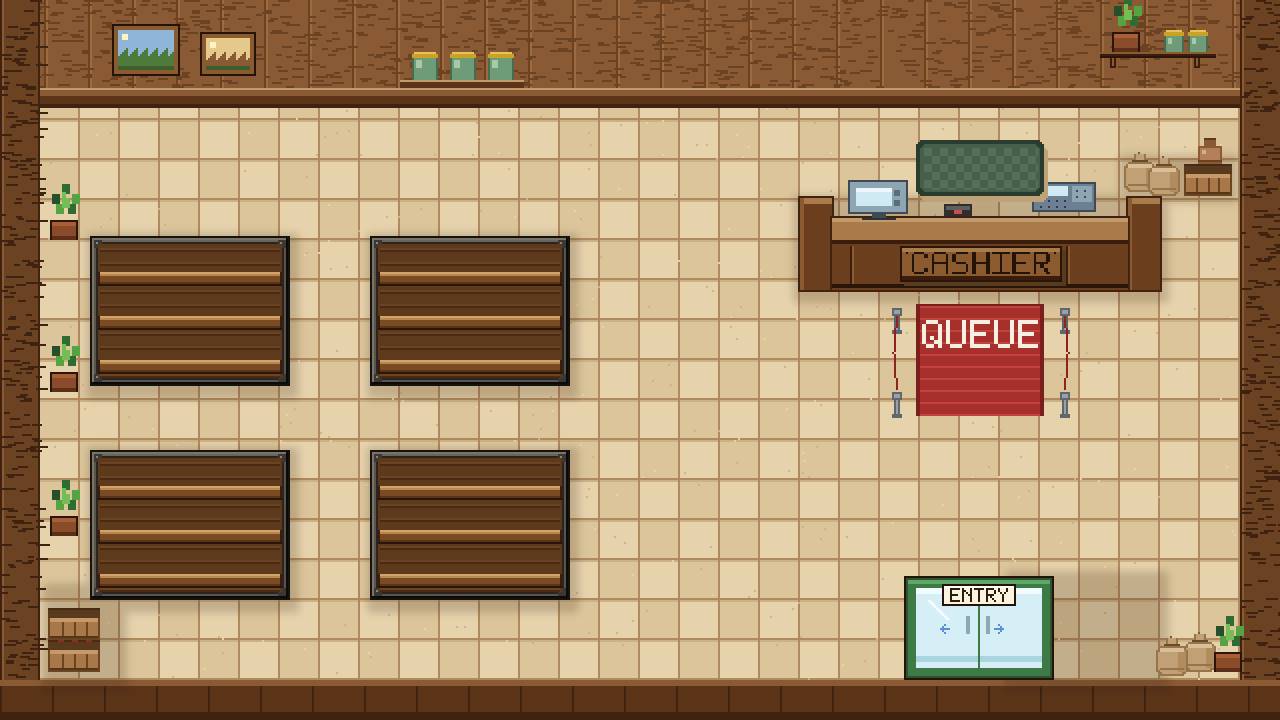
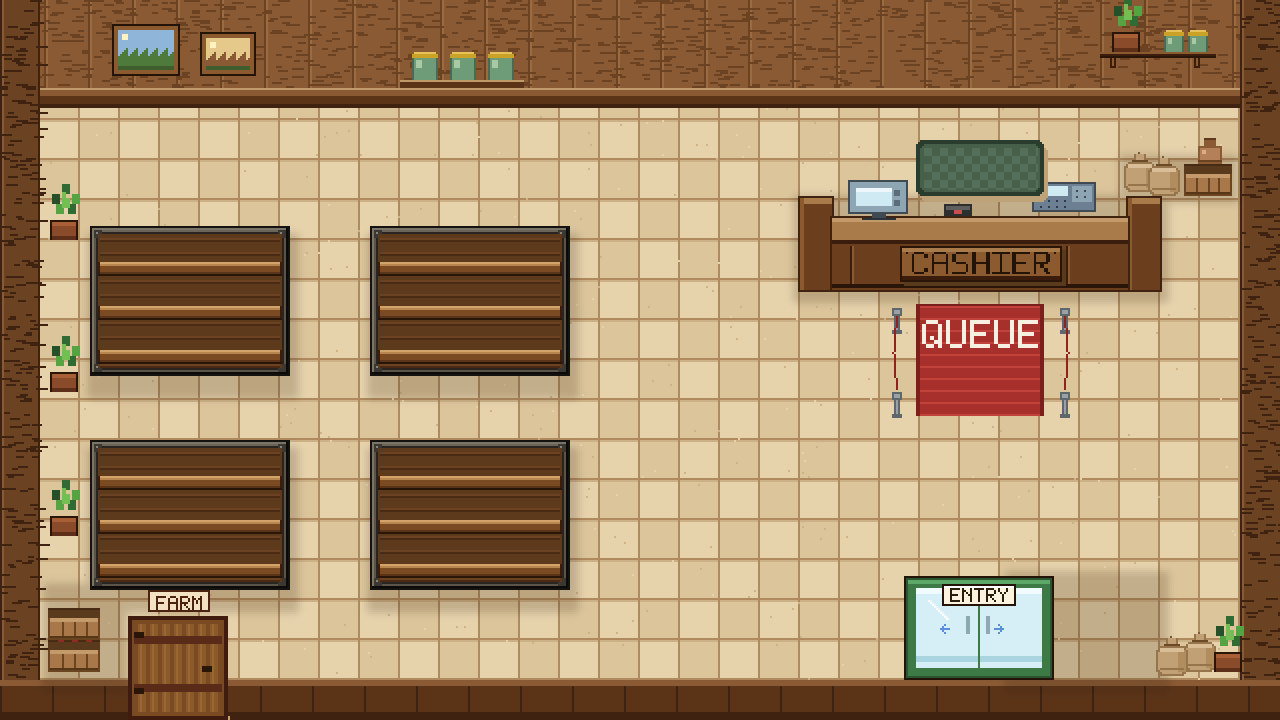
feat(map): pintu FARM di minimarket + pintu 'Minimart' di kebun (klik/SPACE), rak dinaikkan 10px, tombol HUD dihapus

diff --git a/web/src/game/scenes/FarmScene.ts b/web/src/game/scenes/FarmScene.ts
@@ -24,12 +24,17 @@ import {
 } from "../types";
 import { economy } from "../economy";
 import { isPlaying } from "../flow";
-import { openSeedShop } from "../ui";
+import { openSeedShop, goToScene } from "../ui";
 import { recordPurchase, recordPlant, recordHarvest } from "../../near/wallet";
 
 const WORLD_W = 1280;
 /** Titik muncul pemain di kebun: tengah persimpangan jalan (biar langsung terlihat). */
 const FARM_SPAWN = { x: 640, y: 392 };
+
+// Pintu gudang di latar (kanvas 1108..1164, 160..232) dipakai sebagai pintu
+// kembali ke minimarket — papan namanya berubah jadi "Minimart".
+const MART_DOOR = { x: 1108, y: 160, w: 56, h: 72 };
+const DOOR_REACH = 130;
 const WORLD_H = 720;
 const SCALE = 2;
 
@@ -246,7 +251,7 @@ export class FarmScene extends Phaser.Scene {
     // Papan nama gudang: teks duduk di papan kayu yang tergambar di atas pintu
     // (aset: draw_barn_sign di scripts/gen_pixel_assets.py, x+30 y+28, 44x12).
     this.add
-      .text(1136, 148, "Warehouse", {
+      .text(1136, 148, "Minimart", {
         fontFamily: "Verdana, system-ui, sans-serif",
         fontSize: "10px",
         color: "#4A2410",
@@ -319,6 +324,13 @@ export class FarmScene extends Phaser.Scene {
   private pendingColliders: Phaser.GameObjects.Rectangle[] = [];
 
   private createPlayer() {
+    // Zona pintu gudang (kanvas 1108..1164, 160..232) untuk klik.
+    const doorZone = this.add
+      .zone(MART_DOOR.x + MART_DOOR.w / 2, MART_DOOR.y + MART_DOOR.h / 2, MART_DOOR.w, MART_DOOR.h)
+      .setOrigin(0.5, 0.5)
+      .setInteractive({ useHandCursor: true });
+    doorZone.on("pointerdown", () => this.tryUseMartDoor());
+
     this.player = this.physics.add.sprite(FARM_SPAWN.x, FARM_SPAWN.y, "player-down-1-out");
     this.player.setDepth(3);
     // sedikit lebih besar dari NPC toko (skala 2) supaya peran pemain menonjol
@@ -336,6 +348,9 @@ export class FarmScene extends Phaser.Scene {
 
     this.cursors = this.input.keyboard!.createCursorKeys();
     this.wasd = this.input.keyboard!.addKeys("W,A,S,D") as Record<string, Phaser.Input.Keyboard.Key>;
+
+    this.spaceKey = this.input.keyboard!.addKey(Phaser.Input.Keyboard.KeyCodes.SPACE);
+    this.spaceKey.on("down", () => this.tryUseMartDoor());
   }
 
   private createAnimations() {
@@ -719,6 +734,21 @@ export class FarmScene extends Phaser.Scene {
     this.updateStallPrompt();
     if (this.notice && this.time.now > this.noticeUntil) this.notice = null;
   }
+
+  /** Pintu gudang (kini "Minimart"): klik / SPACE untuk kembali ke minimarket. */
+  private tryUseMartDoor() {
+    if (!isPlaying() || !this.front || !this.player) return;
+    const cx = MART_DOOR.x + MART_DOOR.w / 2;
+    const cy = MART_DOOR.y + MART_DOOR.h / 2;
+    const d = Phaser.Math.Distance.Between(this.player.x, this.player.y, cx, cy);
+    if (d > DOOR_REACH) {
+      this.say("Walk closer to the minimart door, then press SPACE.");
+      return;
+    }
+    goToScene("mart");
+  }
+
+  private spaceKey?: Phaser.Input.Keyboard.Key;
 
   private movePlayer() {
     const speed = 210;

diff --git a/web/src/game/scenes/MinimarketScene.ts b/web/src/game/scenes/MinimarketScene.ts
@@ -20,6 +20,7 @@ import {
   type WorldSnapshot,
 } from "../types";
 import { economy, saleProfit } from "../economy";
+import { goToScene } from "../ui";
 import { isPlaying } from "../flow";
 import { recordSale, recordFail, recordRefill } from "../../near/wallet";
 
@@ -41,10 +42,10 @@ const SHELF_SLOTS = SHELF_COLS * SHELF_ROWS;
 
 /** 4 rak: dua kolom, dua baris. */
 const SHELF_POS: { crop: CropId; x: number; y: number }[] = [
-  { crop: "jagung", x: 90, y: 236 },
-  { crop: "tomat", x: 370, y: 236 },
-  { crop: "wortel", x: 90, y: 450 },
-  { crop: "kentang", x: 370, y: 450 },
+  { crop: "jagung", x: 90, y: 226 },
+  { crop: "tomat", x: 370, y: 226 },
+  { crop: "wortel", x: 90, y: 440 },
+  { crop: "kentang", x: 370, y: 440 },
 ];
 
 const COUNTER = { x: 798, y: 216, w: 364, h: 76 };
@@ -52,6 +53,10 @@ const COUNTER = { x: 798, y: 216, w: 364, h: 76 };
 // Pemain muncul di tengah karpet kasir (pusat CASHIER_MAT 916+64, 140+28),
 // bukan lagi di pintu ENTRY, supaya langsung terlihat saat masuk minimarket.
 const PLAYER_SPAWN = { x: 980, y: 168 };
+
+// Pintu kayu ke kebun di kiri bawah (digambar di market-bg oleh generator).
+const FARM_DOOR = { x: 132, y: 620, w: 92, h: 96 };
+const DOOR_REACH = 120;
 
 /**
  * Traffic pelanggan berbasis gelombang (disetujui Bos Yoga):
@@ -639,6 +644,7 @@ export class MinimarketScene extends Phaser.Scene {
   }
 
   private colliders: Phaser.GameObjects.Rectangle[] = [];
+  private spaceKey?: Phaser.Input.Keyboard.Key;
 
   private createPlayer() {
     this.player = this.physics.add.sprite(PLAYER_SPAWN.x, PLAYER_SPAWN.y, "player-down-1-out");
@@ -658,6 +664,28 @@ export class MinimarketScene extends Phaser.Scene {
       string,
       Phaser.Input.Keyboard.Key
     >;
+    this.spaceKey = this.input.keyboard!.addKey(Phaser.Input.Keyboard.KeyCodes.SPACE);
+    this.spaceKey.on("down", () => this.tryUseFarmDoor());
+
+    // Klik pada pintu kayu juga berfungsi (tidak perlu tepat di karpet pintu).
+    const doorZone = this.add
+      .zone(FARM_DOOR.x + FARM_DOOR.w / 2, FARM_DOOR.y + FARM_DOOR.h / 2, FARM_DOOR.w, FARM_DOOR.h)
+      .setOrigin(0.5, 0.5)
+      .setInteractive({ useHandCursor: true });
+    doorZone.on("pointerdown", () => this.tryUseFarmDoor());
+  }
+
+  /** Pemain menekan SPACE / mengklik pintu kayu: pindah ke kebun kalau cukup dekat. */
+  private tryUseFarmDoor() {
+    if (!isPlaying() || !this.front || !this.player) return;
+    const cx = FARM_DOOR.x + FARM_DOOR.w / 2;
+    const cy = FARM_DOOR.y + FARM_DOOR.h / 2;
+    const d = Phaser.Math.Distance.Between(this.player.x, this.player.y, cx, cy);
+    if (d > DOOR_REACH) {
+      this.say("Walk closer to the door, then press SPACE.");
+      return;
+    }
+    goToScene("farm");
   }
 
   private createAnimations() {

diff --git a/web/src/Game.tsx b/web/src/Game.tsx
@@ -10,7 +10,7 @@ import { useCallback, useEffect, useRef, useState } from "react";
 import { connectWallet, ensureSessionKey, disconnectWallet, subscribe as subscribeWallet, recordRound } from "./near/wallet";
 import Phaser from "phaser";
 import { FarmScene } from "./game/scenes/FarmScene";
-import { onOpenSeedShop } from "./game/ui";
+import { onOpenSeedShop, onGoToScene } from "./game/ui";
 import { MinimarketScene } from "./game/scenes/MinimarketScene";
 import { economy, resetEconomy } from "./game/economy";
 import { isPlaying, startSession, stopSession } from "./game/flow";
@@ -266,9 +266,6 @@ export default function Game() {
   const [payChange, setPayChange] = useState("");
   const changeRef = useRef<HTMLInputElement>(null);
   const payId = world.store.payment?.id ?? 0;
-  /** Ada rak yang menampilkan "FILL YOUR DISPLAY" (stok ≤ 8) → tombol FARM berkedip. */
-  const needsRefill = world.shelves.some((s) => s.count <= 8);
-
 
 
   const billTotal = world.store.payment
@@ -534,6 +531,21 @@ export default function Game() {
     mini?.resetRound();
   }, [switchScene]);
 
+  // Pintu di peta memanggil ini lewat game/ui.ts (klik atau SPACE).
+  useEffect(() => {
+    const off = onGoToScene((target) => {
+      if (target === "farm") {
+        playNav();
+        switchScene("FarmScene");
+        showTentHint();
+      } else {
+        playNav();
+        switchScene("MinimarketScene");
+      }
+    });
+    return off;
+  }, [switchScene, showTentHint]);
+
   const totalSeedCost = CROP_ORDER.reduce((sum, c) => sum + CROPS[c].seed * qty[c], 0);
   return (
     <div className={`game-root${playing ? " is-playing" : ""}`} ref={rootRef}>
@@ -562,22 +574,6 @@ export default function Game() {
             <span className="hud-music-icon" aria-hidden="true">♪</span>
             <span>{musicOn ? "ON" : "OFF"}</span>
           </button>
-        </div>
-
-        {/* Pindah halaman + TUTUP TOKO. Tombol mulai jualan ada di layar PLAY. */}
-        <div className="hud-center">
-          {world.activeScene === "farm" ? (
-            <button className="hud-btn" onClick={() => { playNav(); switchScene("MinimarketScene"); }}>
-              MINIMART
-            </button>
-          ) : (
-            <button
-              className={`hud-btn ${needsRefill ? "is-alert" : ""}`}
-              onClick={() => { playNav(); switchScene("FarmScene"); showTentHint(); }}
-            >
-              FARM
-            </button>
-          )}
         </div>
 
         <div className="hud-right">

diff --git a/web/src/game/ui.ts b/web/src/game/ui.ts
@@ -2,13 +2,15 @@
  * Saluran kecil antara Phaser dan React untuk hal-hal UI.
  *
  * Dipakai supaya scene bisa meminta React membuka popup (mis. Toko Bibit dari
- * tenda di peta) tanpa bergantung pada referensi instance scene yang bisa
- * berbeda antar-reload.
+ * tenda di peta) atau berpindah tempat (lewat pintu), tanpa bergantung pada
+ * referensi instance scene yang bisa berbeda antar-reload.
  */
 
 type Listener = () => void;
+type SceneListener = (target: "farm" | "mart") => void;
 
 let listeners: Listener[] = [];
+let sceneListeners: SceneListener[] = [];
 
 /** Daftarkan pendengar; kembalikan fungsi untuk melepasnya. */
 export function onOpenSeedShop(fn: Listener): () => void {
@@ -21,4 +23,17 @@ export function onOpenSeedShop(fn: Listener): () => void {
 /** Panggil dari scene: minta React membuka popup Toko Bibit. */
 export function openSeedShop() {
   for (const fn of listeners) fn();
+}
+
+/** Daftarkan pendengar pindah tempat (pintu). */
+export function onGoToScene(fn: SceneListener): () => void {
+  sceneListeners.push(fn);
+  return () => {
+    sceneListeners = sceneListeners.filter((l) => l !== fn);
+  };
+}
+
+/** Panggil dari scene: pemain menembus/menekan pintu. */
+export function goToScene(target: "farm" | "mart") {
+  for (const fn of sceneListeners) fn(target);
 }

diff --git a/web/scripts/gen_market_assets.py b/web/scripts/gen_market_assets.py
@@ -642,6 +642,45 @@ def shadows():
     return sl.filter(ImageFilter.GaussianBlur(2))
 
 
+
+def draw_farm_door(d):
+    """Pintu kayu ke kebun (kiri bawah minimarket).
+
+    Gaya sama seperti pintu gudang di peta kebun: papan kayu vertikal,
+    kusen gelap, pegangan besi, dan papan kecil "FARM" di atasnya.
+    """
+    x, y, w, h = 66, 310, 46, 48
+
+    # bayangan lantai
+    d.rectangle([x - 2, y + h, x + w + 2, y + h + 3], fill="#C9A26A")
+
+    # kusen
+    rect(d, x - 2, y - 2, w + 4, h + 4, "#3F1C0E")
+    # daun pintu: papan vertikal
+    rect(d, x, y, w, h, "#7A4A22")
+    for i in range(x + 3, x + w - 2, 6):
+        d.rectangle([i, y + 2, i + 3, y + h - 3], fill="#8B5A2B")
+        d.rectangle([i + 1, y + 2, i + 1, y + h - 3], fill="#9A6631")
+    # palang mendatar
+    rect(d, x + 1, y + 8, w - 2, 4, "#5B2B19")
+    rect(d, x + 1, y + h - 16, w - 2, 4, "#5B2B19")
+    # pegangan besi
+    rect(d, x + w - 11, y + h // 2 - 1, 5, 3, "#2A1608")
+    # engsel
+    rect(d, x + 1, y + 6, 5, 3, "#2A1608")
+    rect(d, x + 1, y + h - 14, 5, 3, "#2A1608")
+
+    # papan nama "FARM" di atas pintu
+    label = "FARM"
+    tw = text_w(label)
+    pw_, ph_ = tw + 8, 11
+    px_ = x + w // 2 - pw_ // 2
+    py_ = y - 15
+    rect(d, px_, py_, pw_, ph_, "#4A2410")
+    rect(d, px_ + 1, py_ + 1, pw_ - 2, ph_ - 2, "#F2E2C2")
+    draw_text(d, px_ + 4, py_ + 3, label, "#4A2410")
+
+
 def main():
     rng = random.Random(7)
     img = Image.new("RGBA", (W, H), (0, 0, 0, 0))
@@ -666,10 +705,10 @@ def main():
 
     # 4 rak + papan harga
     tags = [
-        (45, 118, "JAGUNG — 10", "#E5B93C"),
-        (185, 118, "TOMAT — 15", "#D14B3C"),
-        (45, 225, "WORTEL — 15", "#E08A2E"),
-        (185, 225, "KENTANG — 12", "#B98D62"),
+        (45, 113, "JAGUNG — 10", "#E5B93C"),
+        (185, 113, "TOMAT — 15", "#D14B3C"),
+        (45, 220, "WORTEL — 15", "#E08A2E"),
+        (185, 220, "KENTANG — 12", "#B98D62"),
     ]
     for (x, y, label, dot) in tags:
         draw_shelf(d, x, y)
@@ -679,6 +718,7 @@ def main():
     draw_zones(d)
     draw_queue_lane(d)
     draw_door(d)
+    draw_farm_door(d)
 
     out = os.path.join(OUT, "market-bg.png")
     img.save(out)
